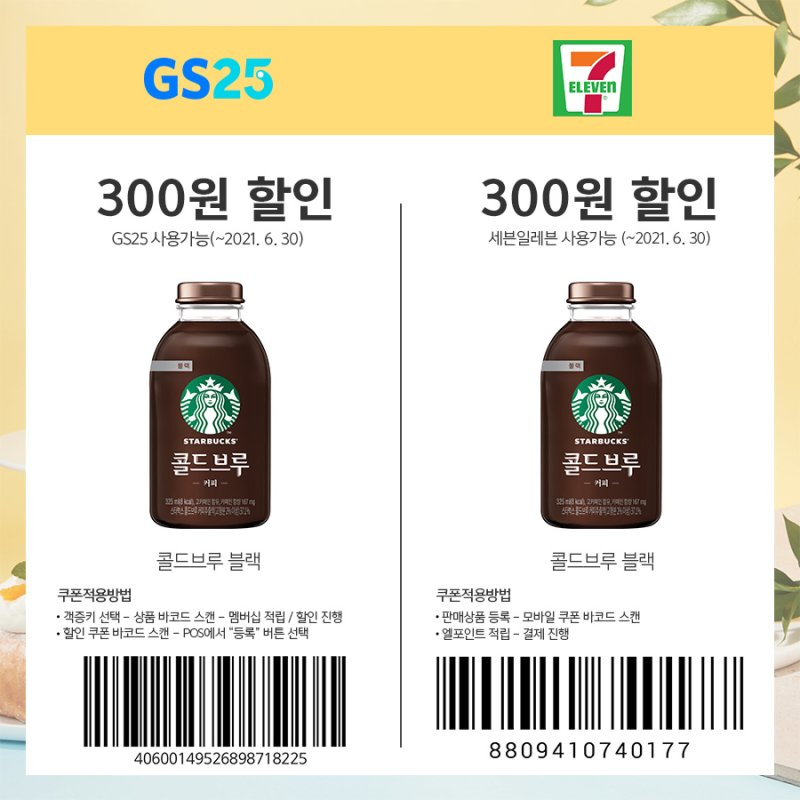
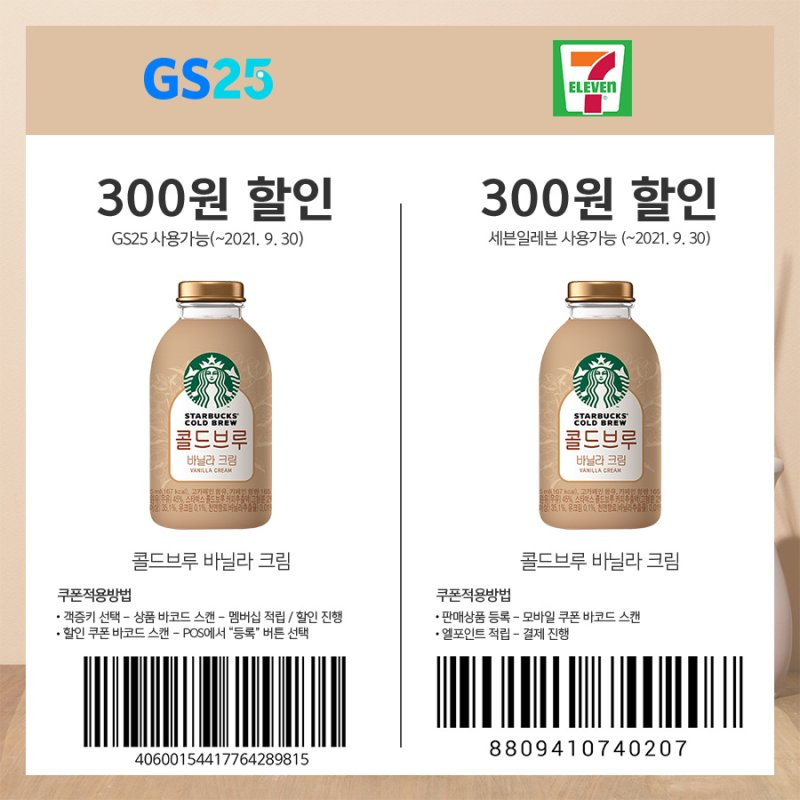
fix: 쿠폰 이미지 갱신

diff --git a/component/StarCoupons.js b/component/StarCoupons.js
@@ -18,6 +18,8 @@ const images = [
   require('../image/coupon2.jpg'),
   require('../image/coupon3.jpg'),
   require('../image/coupon4.jpg'),
+  require('../image/coupon5.jpg'),
+  require('../image/coupon6.jpg'),
 ];
 
 export default function StarCoupons({toggle}) {

diff --git a/page/Star.js b/page/Star.js
@@ -14,7 +14,7 @@ const Page = styled.SafeAreaView`
   background-color: #ffffff;
 `;
 
-const couponMonth = 6;
+const couponMonth = 9;
 const month = new Date().getMonth() + 1;
 
 export default function Star() {
